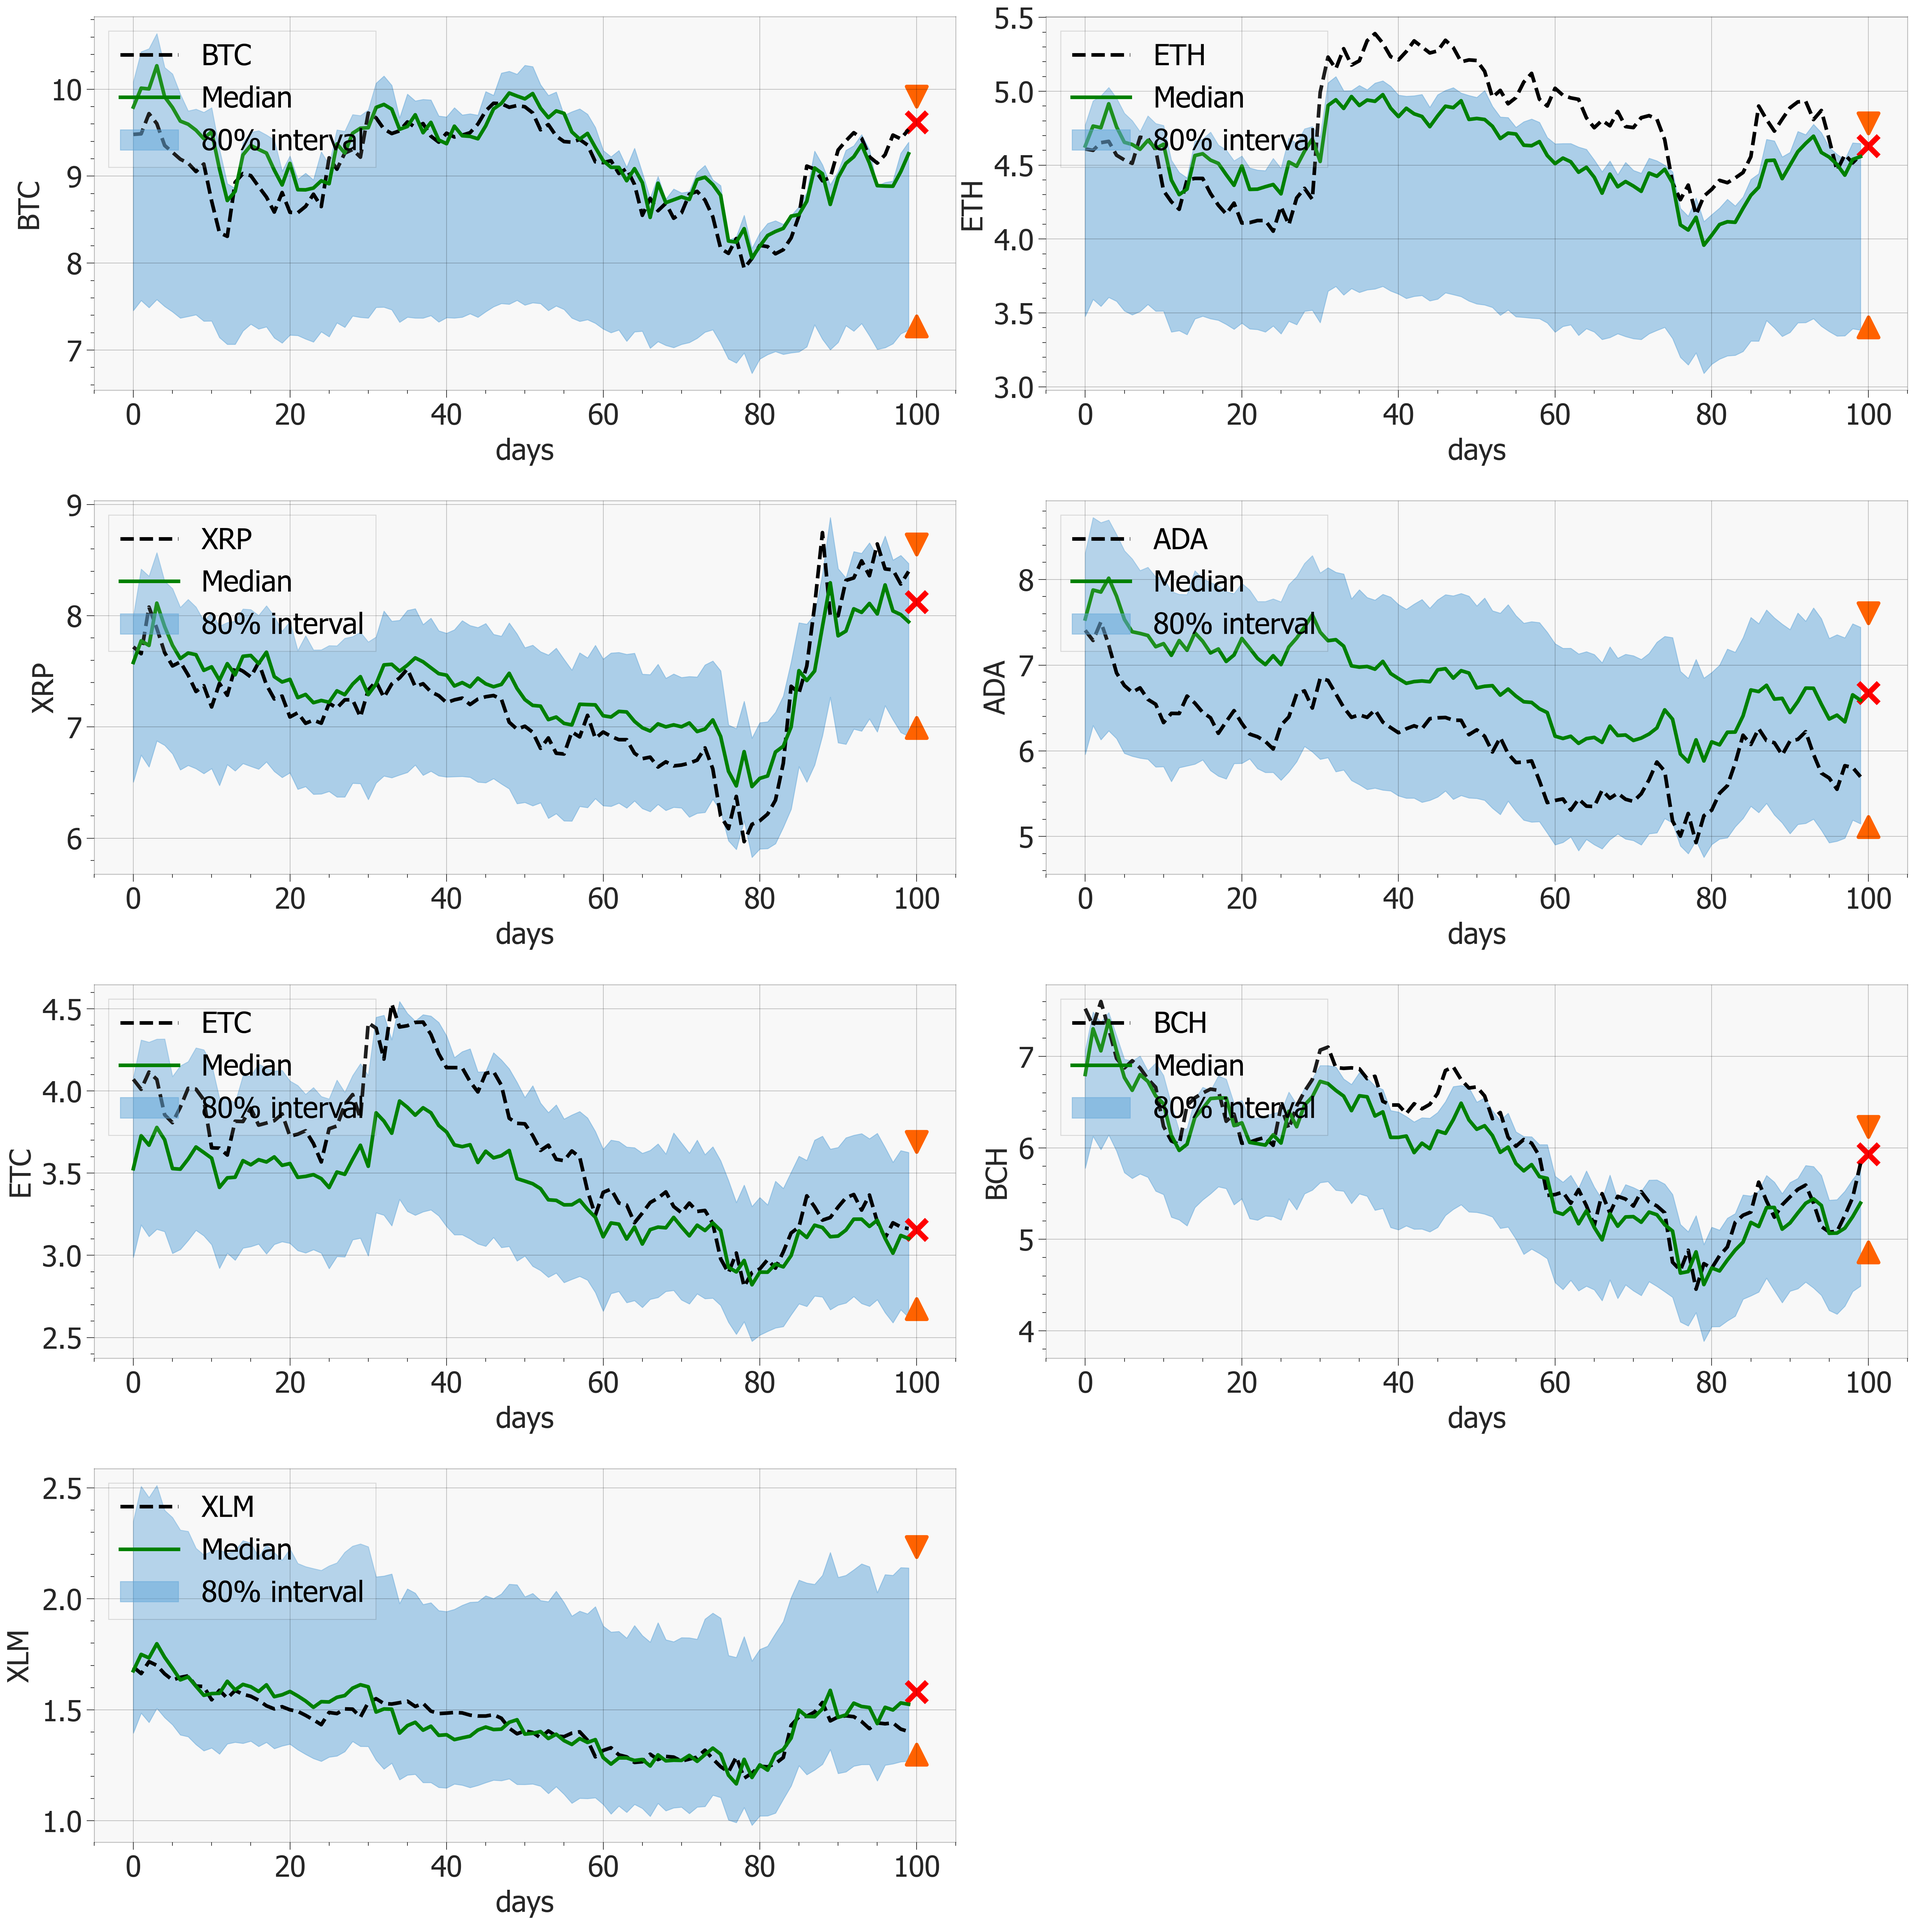
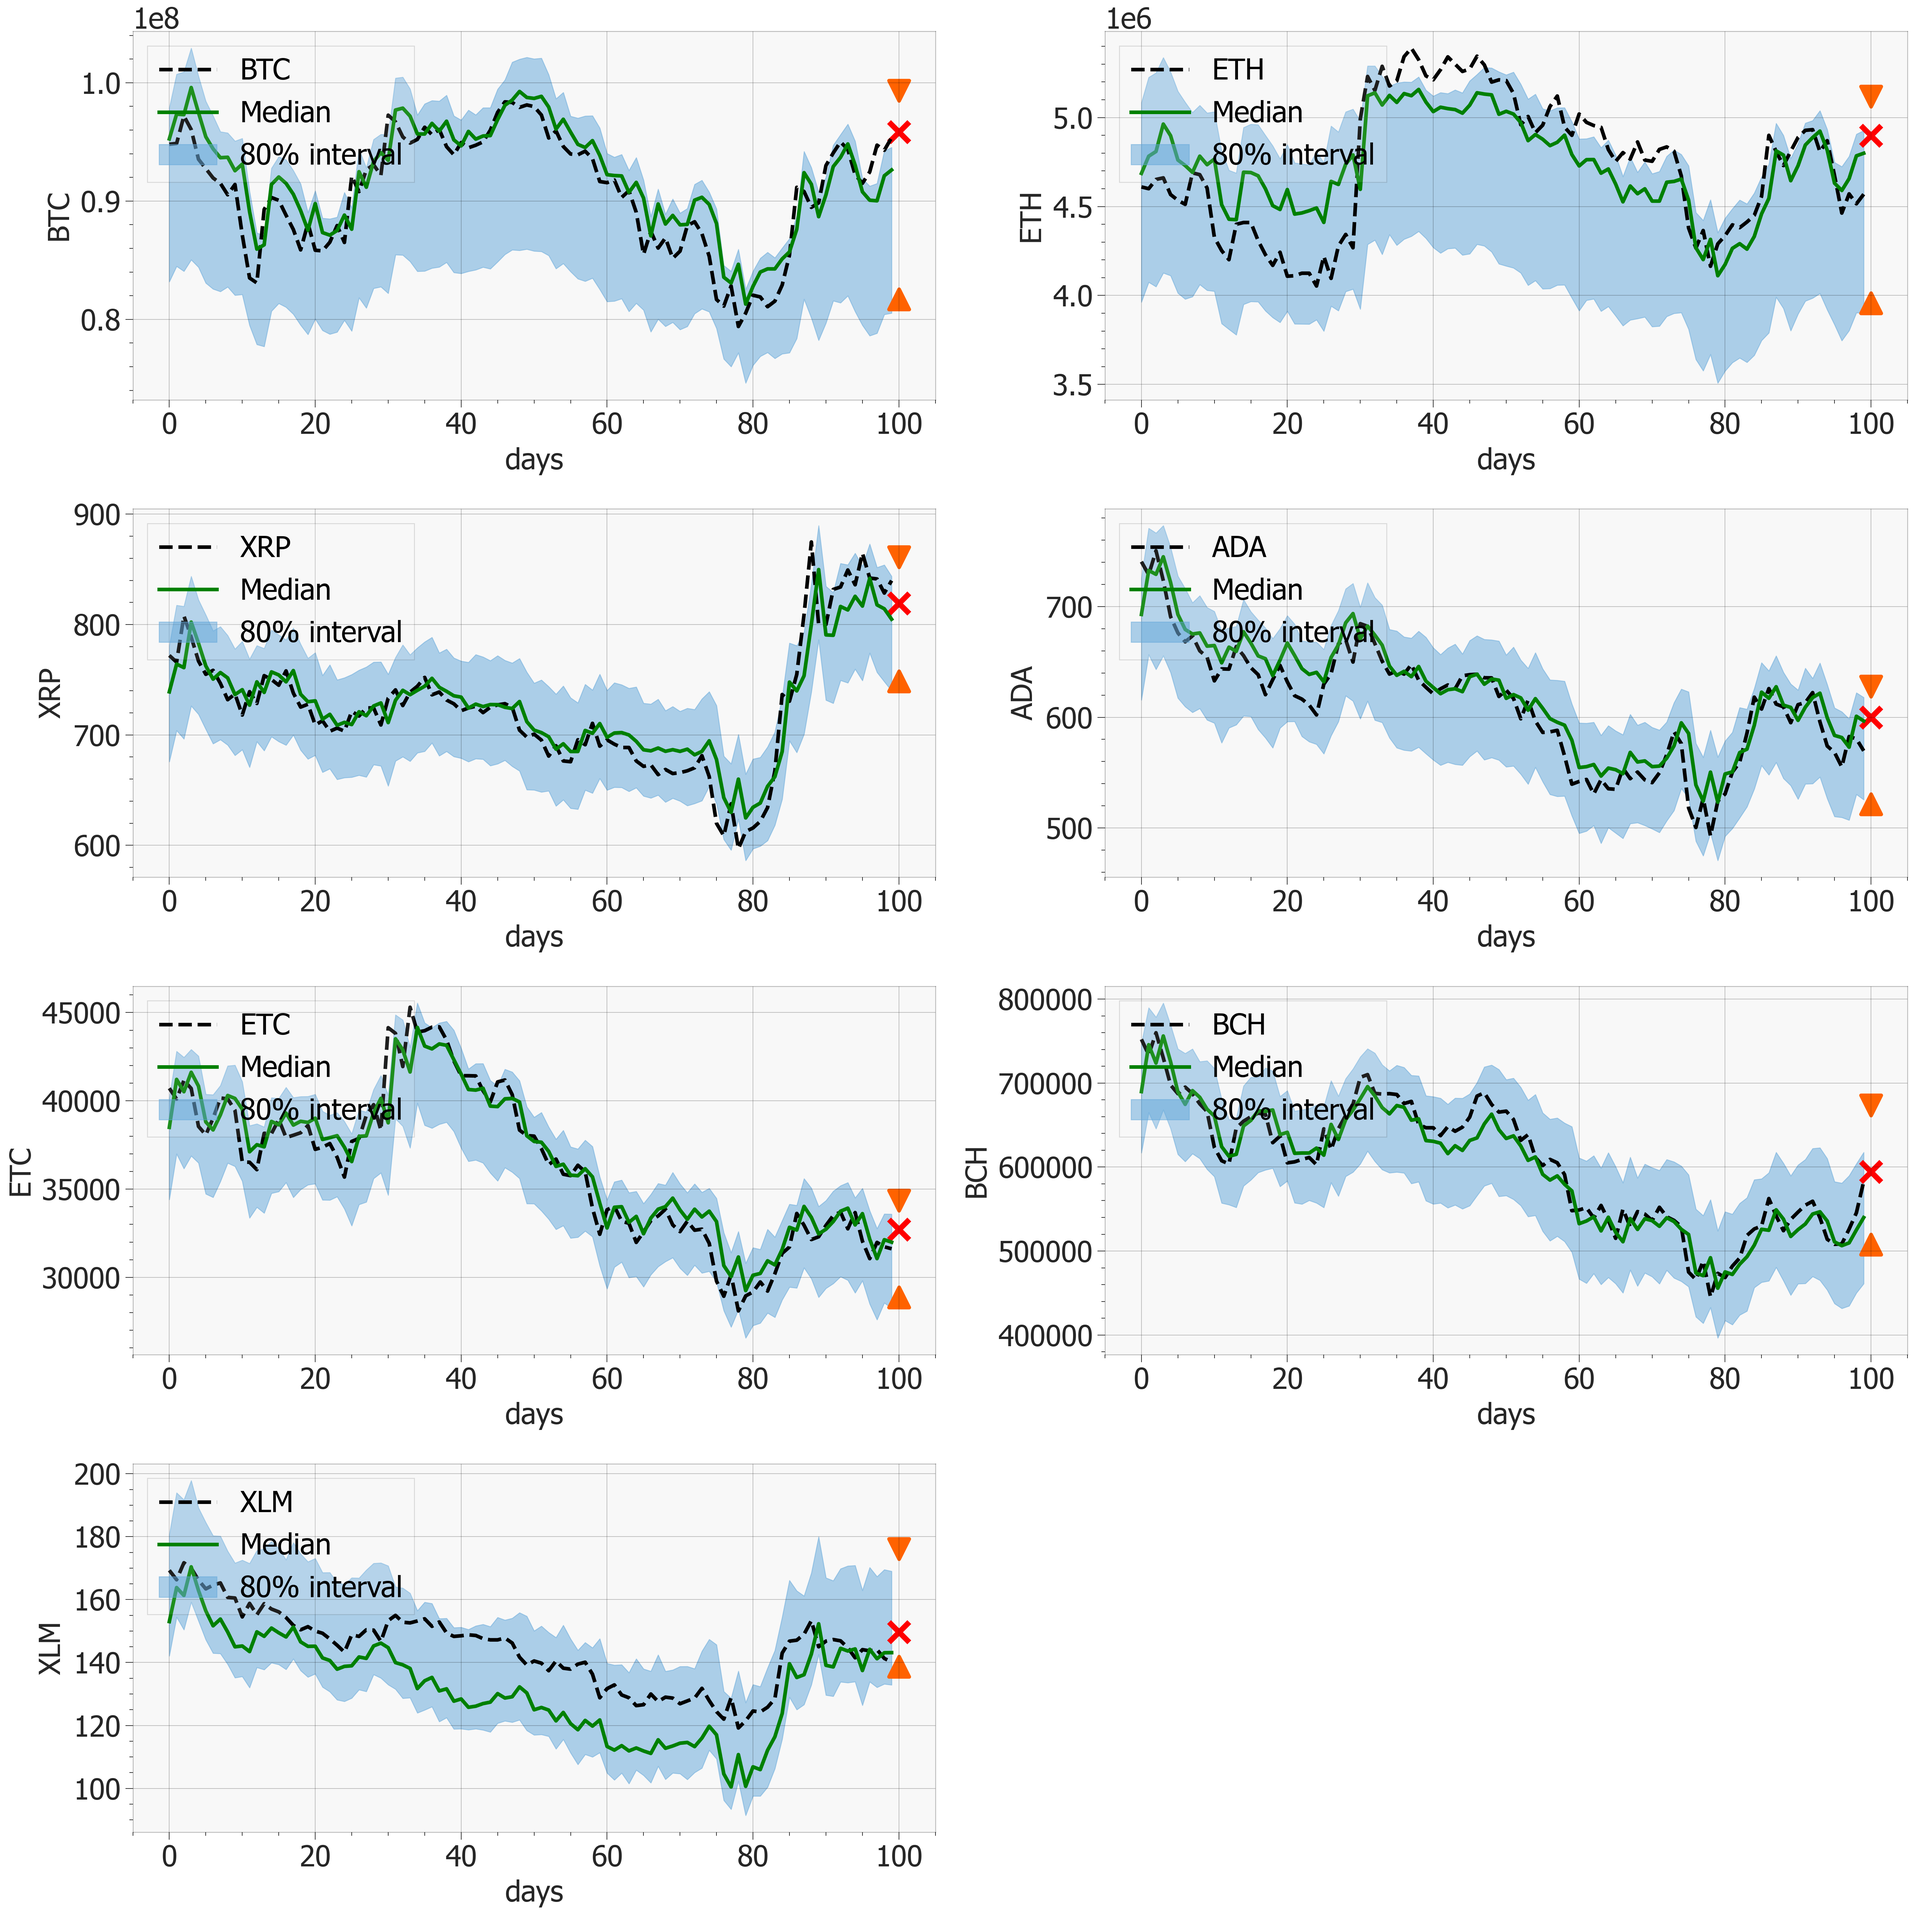
[Update] history, scaling, epochs (24.07.29 history)

diff --git a/modules/utils.py b/modules/utils.py
@@ -75,7 +75,7 @@ def build_datasets(df, test_len, config):
     
     return train_list, test_list
 #%%
-def visualize_quantile(target_, estQ, colnames, forecasts, show=False):
+def visualize_quantile(target_, estQ, colnames, forecasts, scaling_dict, show=False):
     recent = 100
     mpl.rcParams["figure.dpi"] = 200
     mpl_style(dark=False)
@@ -94,32 +94,32 @@ def visualize_quantile(target_, estQ, colnames, forecasts, show=False):
     fig, ax = plt.subplots(4, 2, figsize=(30, 30))
     for j in range(estQ[1].size(1)):
         ax.flatten()[j].plot(
-            np.arange(recent), target_[-recent:, j],
+            np.arange(recent), target_[-recent:, j] * scaling_dict.get(colnames[j]),
             label=f"{colnames[j]}", color="black", linewidth=4, linestyle='--')
         ax.flatten()[j].plot(
-            np.arange(recent), estQ[1][-recent:, j],
+            np.arange(recent), estQ[1][-recent:, j] * scaling_dict.get(colnames[j]),
             label="Median", color='green', linewidth=4)
         ax.flatten()[j].fill_between(
             np.arange(recent), 
-            estQ[0][-recent:, j], 
-            estQ[2][-recent:, j], 
+            estQ[0][-recent:, j] * scaling_dict.get(colnames[j]), 
+            estQ[2][-recent:, j] * scaling_dict.get(colnames[j]), 
             color=cols[3], alpha=0.5, label=r'80% interval')
         ### online
         ax.flatten()[j].scatter(
-            np.arange(recent, recent+1), forecasts[1][:, j],
+            np.arange(recent, recent+1), forecasts[1][:, j] * scaling_dict.get(colnames[j]),
             color='red', s=500, marker='x', linewidth=6)
         ax.flatten()[j].scatter(
-            np.arange(recent, recent+1), forecasts[0][:, j],
+            np.arange(recent, recent+1), forecasts[0][:, j] * scaling_dict.get(colnames[j]),
             color=cols[0], s=500, marker='^', linewidth=4)
         ax.flatten()[j].scatter(
-            np.arange(recent, recent+1), forecasts[2][:, j],
+            np.arange(recent, recent+1), forecasts[2][:, j] * scaling_dict.get(colnames[j]),
             color=cols[0], s=500, marker='v', linewidth=4)
         ax.flatten()[j].set_ylabel(f"{colnames[j]}")
         ax.flatten()[j].set_xlabel("days")
         ax.flatten()[j].legend(loc="upper left")
     ax[-1, -1].axis('off')
     plt.tight_layout()
-    plt.savefig(f"./assets/fig/result.png", bbox_inches='tight')
+    plt.savefig(f"./assets/result.png", bbox_inches='tight')
     if show:
         plt.show()
     plt.close()

diff --git a/main.py b/main.py
@@ -1,21 +1,12 @@
 #%%
 import os
 os.chdir(os.path.dirname(os.path.abspath(__file__)))
-
-import numpy as np
 import pandas as pd
-import tqdm
-import matplotlib.pyplot as plt
-
+from datetime import datetime
 import torch
-from torch import nn
-import torch.nn.functional as F
-from torch.utils.data import TensorDataset, DataLoader
-from torch.utils.data import Dataset
 
 import sys
 sys.path.append('./modules')
-
 import importlib
 layers = importlib.import_module('modules.layers')
 importlib.reload(layers)
@@ -160,7 +151,7 @@ def main():
             print(print_input)
     #%%
     """model save"""
-    torch.save(model.state_dict(), f'./assets/models/{config["model"]}.pth')
+    torch.save(model.state_dict(), f'assets/{config["model"]}.pth')
     #%%
     """Quantile Estimation"""
     alphas = [0.1, 0.5, 0.9]
@@ -178,7 +169,7 @@ def main():
     forecasts = [Q[-1] for Q in est_quantiles]
     #%%
     """Visualize"""
-    fig = utils.visualize_quantile(target_, estQ, colnames, forecasts, show=False)
+    fig = utils.visualize_quantile(target_, estQ, colnames, forecasts, scaling_dict, show=False)
     #%%
     """Forecasting results"""
     df_forecast = []
@@ -191,9 +182,19 @@ def main():
                 forecasts[2][0, j].item(),
             ]
         )
-    pd.DataFrame(df_forecast, columns=["names", "10%", "50%", "90%"]).to_csv(
-        "assets/forecasting.csv"
-    )
+    df_forecast = pd.DataFrame(df_forecast, columns=["names", "10%", "50%", "90%"])
+    df_forecast.to_csv("assets/forecasting.csv") # tomorrow
+    #%%
+    try:
+        history = pd.read_csv("assets/history.csv", index_col=0)
+    except:
+        history = pd.DataFrame()
+    tomorrow = datetime.strftime(
+        pd.to_datetime(df.index[-1]) + pd.Timedelta('24:00:00'), 
+    '%Y-%m-%d %H:%M:%S')
+    df_forecast["time"] = tomorrow
+    history = pd.concat([history, df_forecast], axis=0)
+    history.to_csv("assets/history.csv")
 #%%
 if __name__ == '__main__':
     main()
